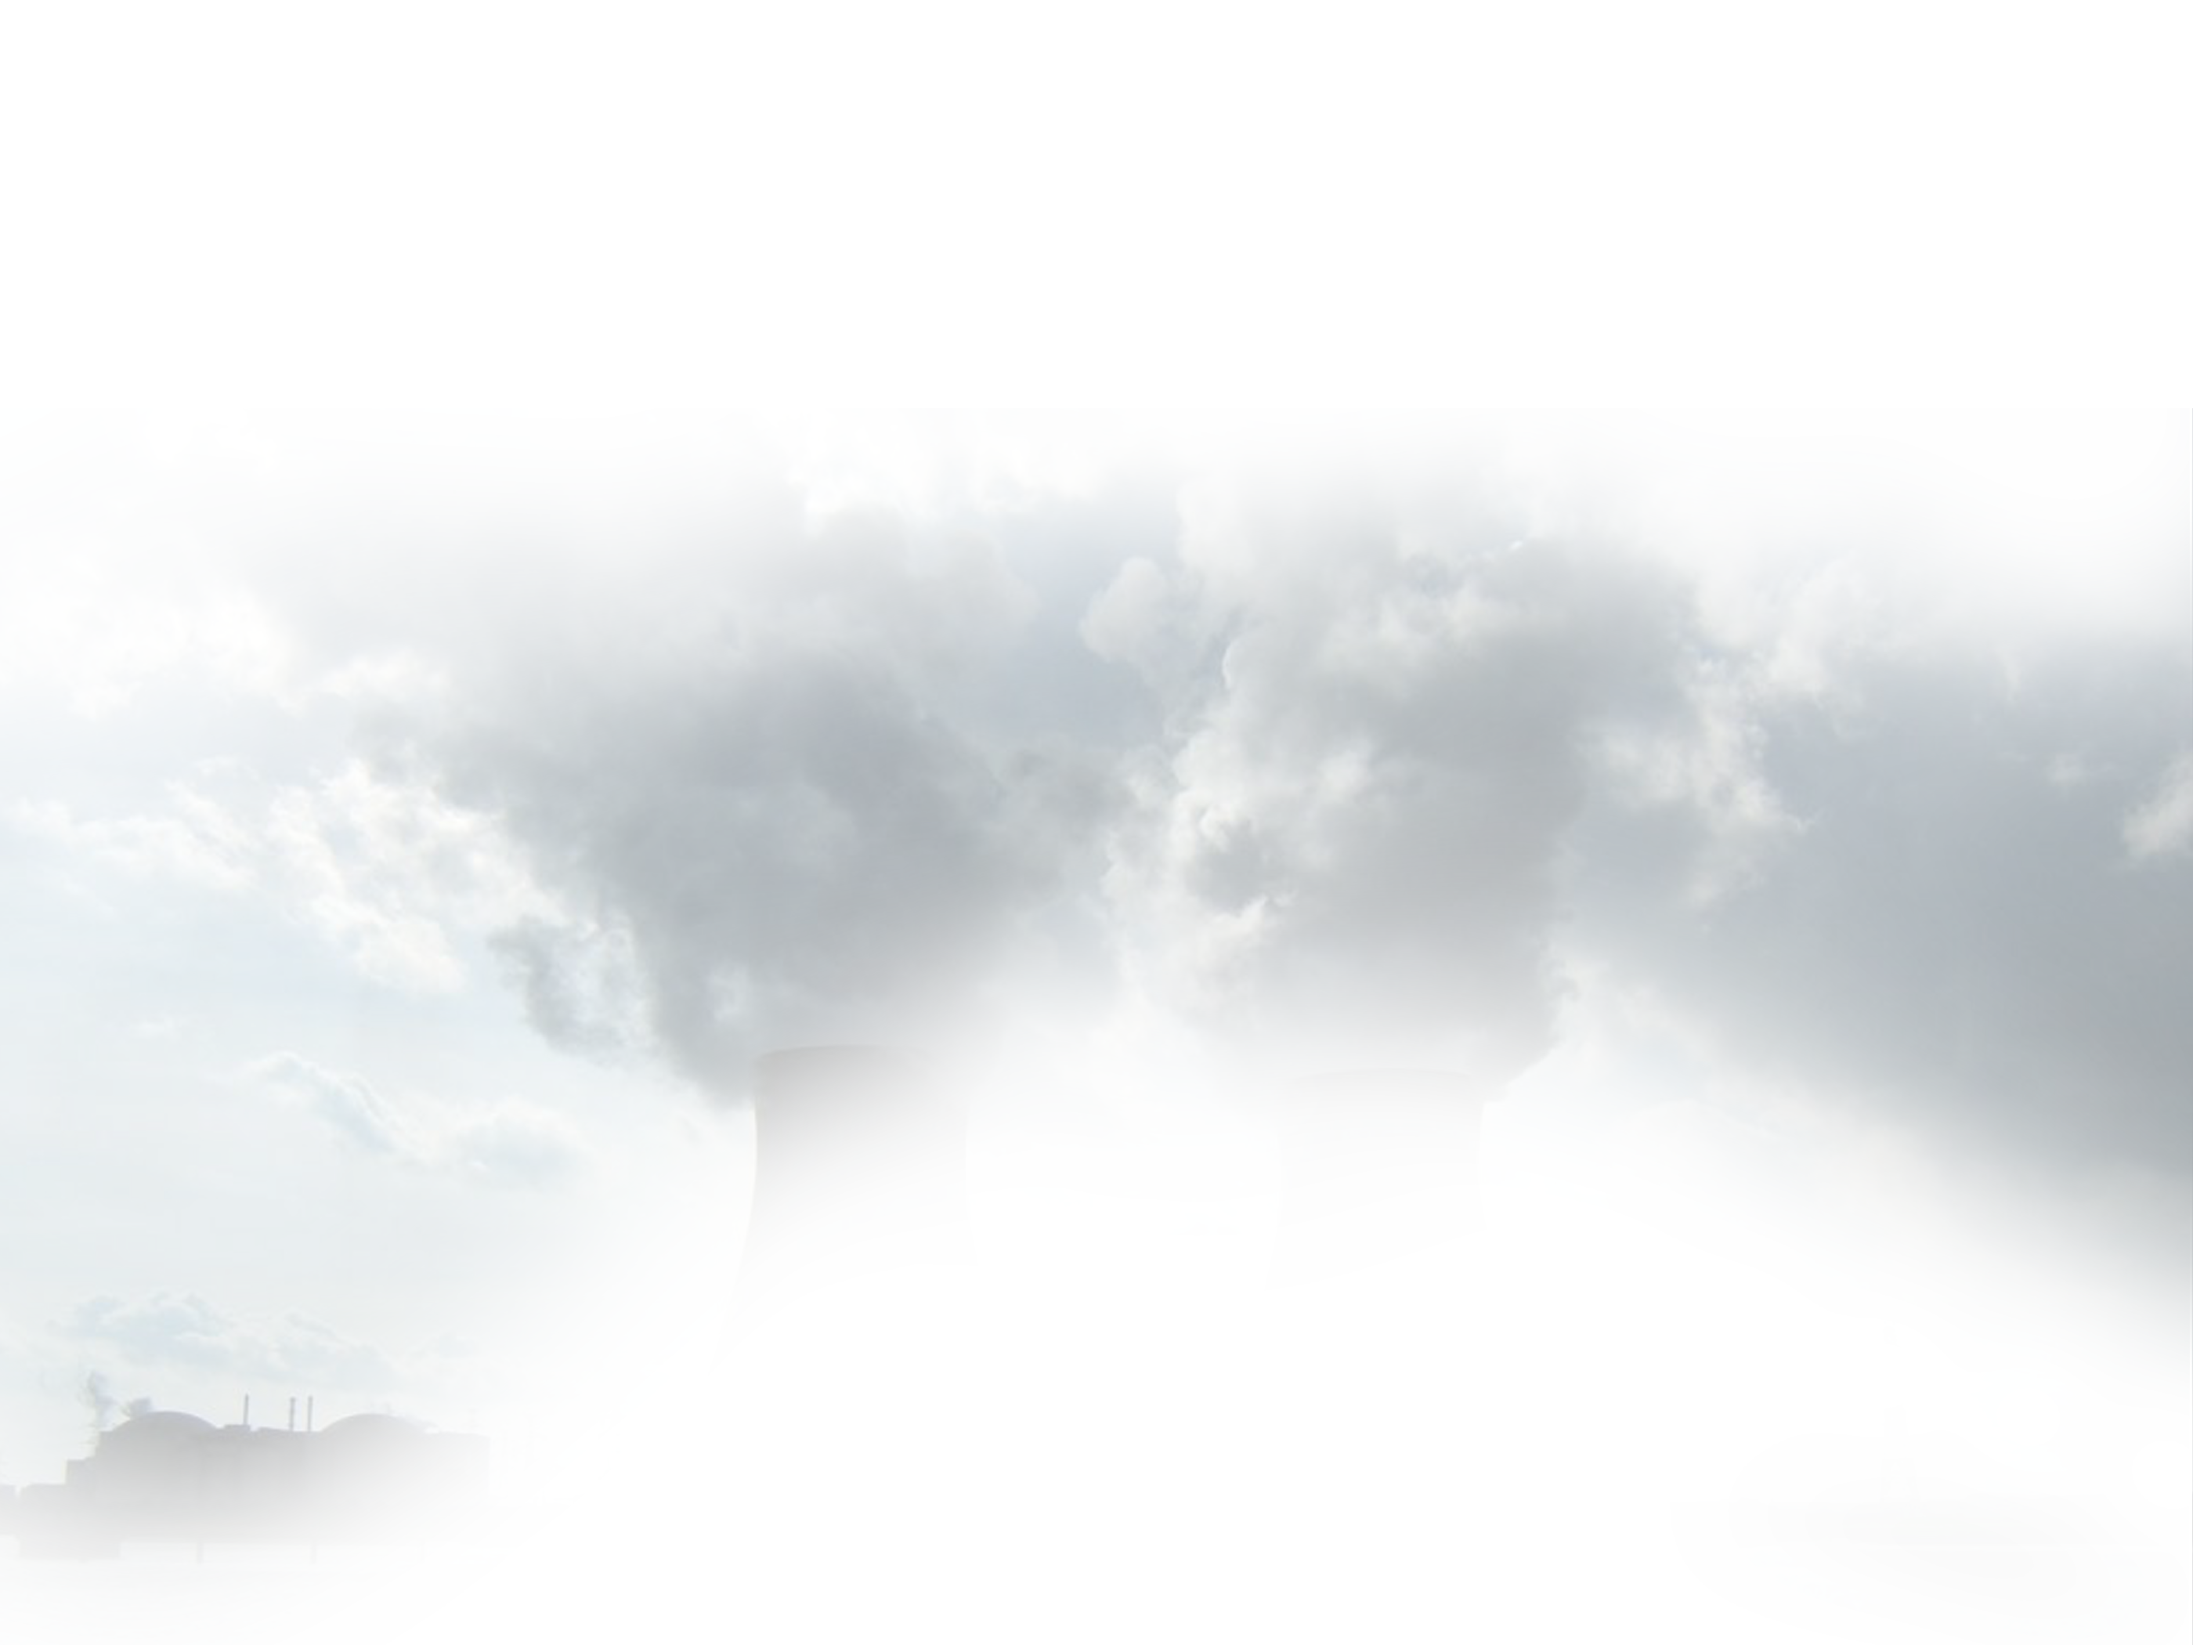
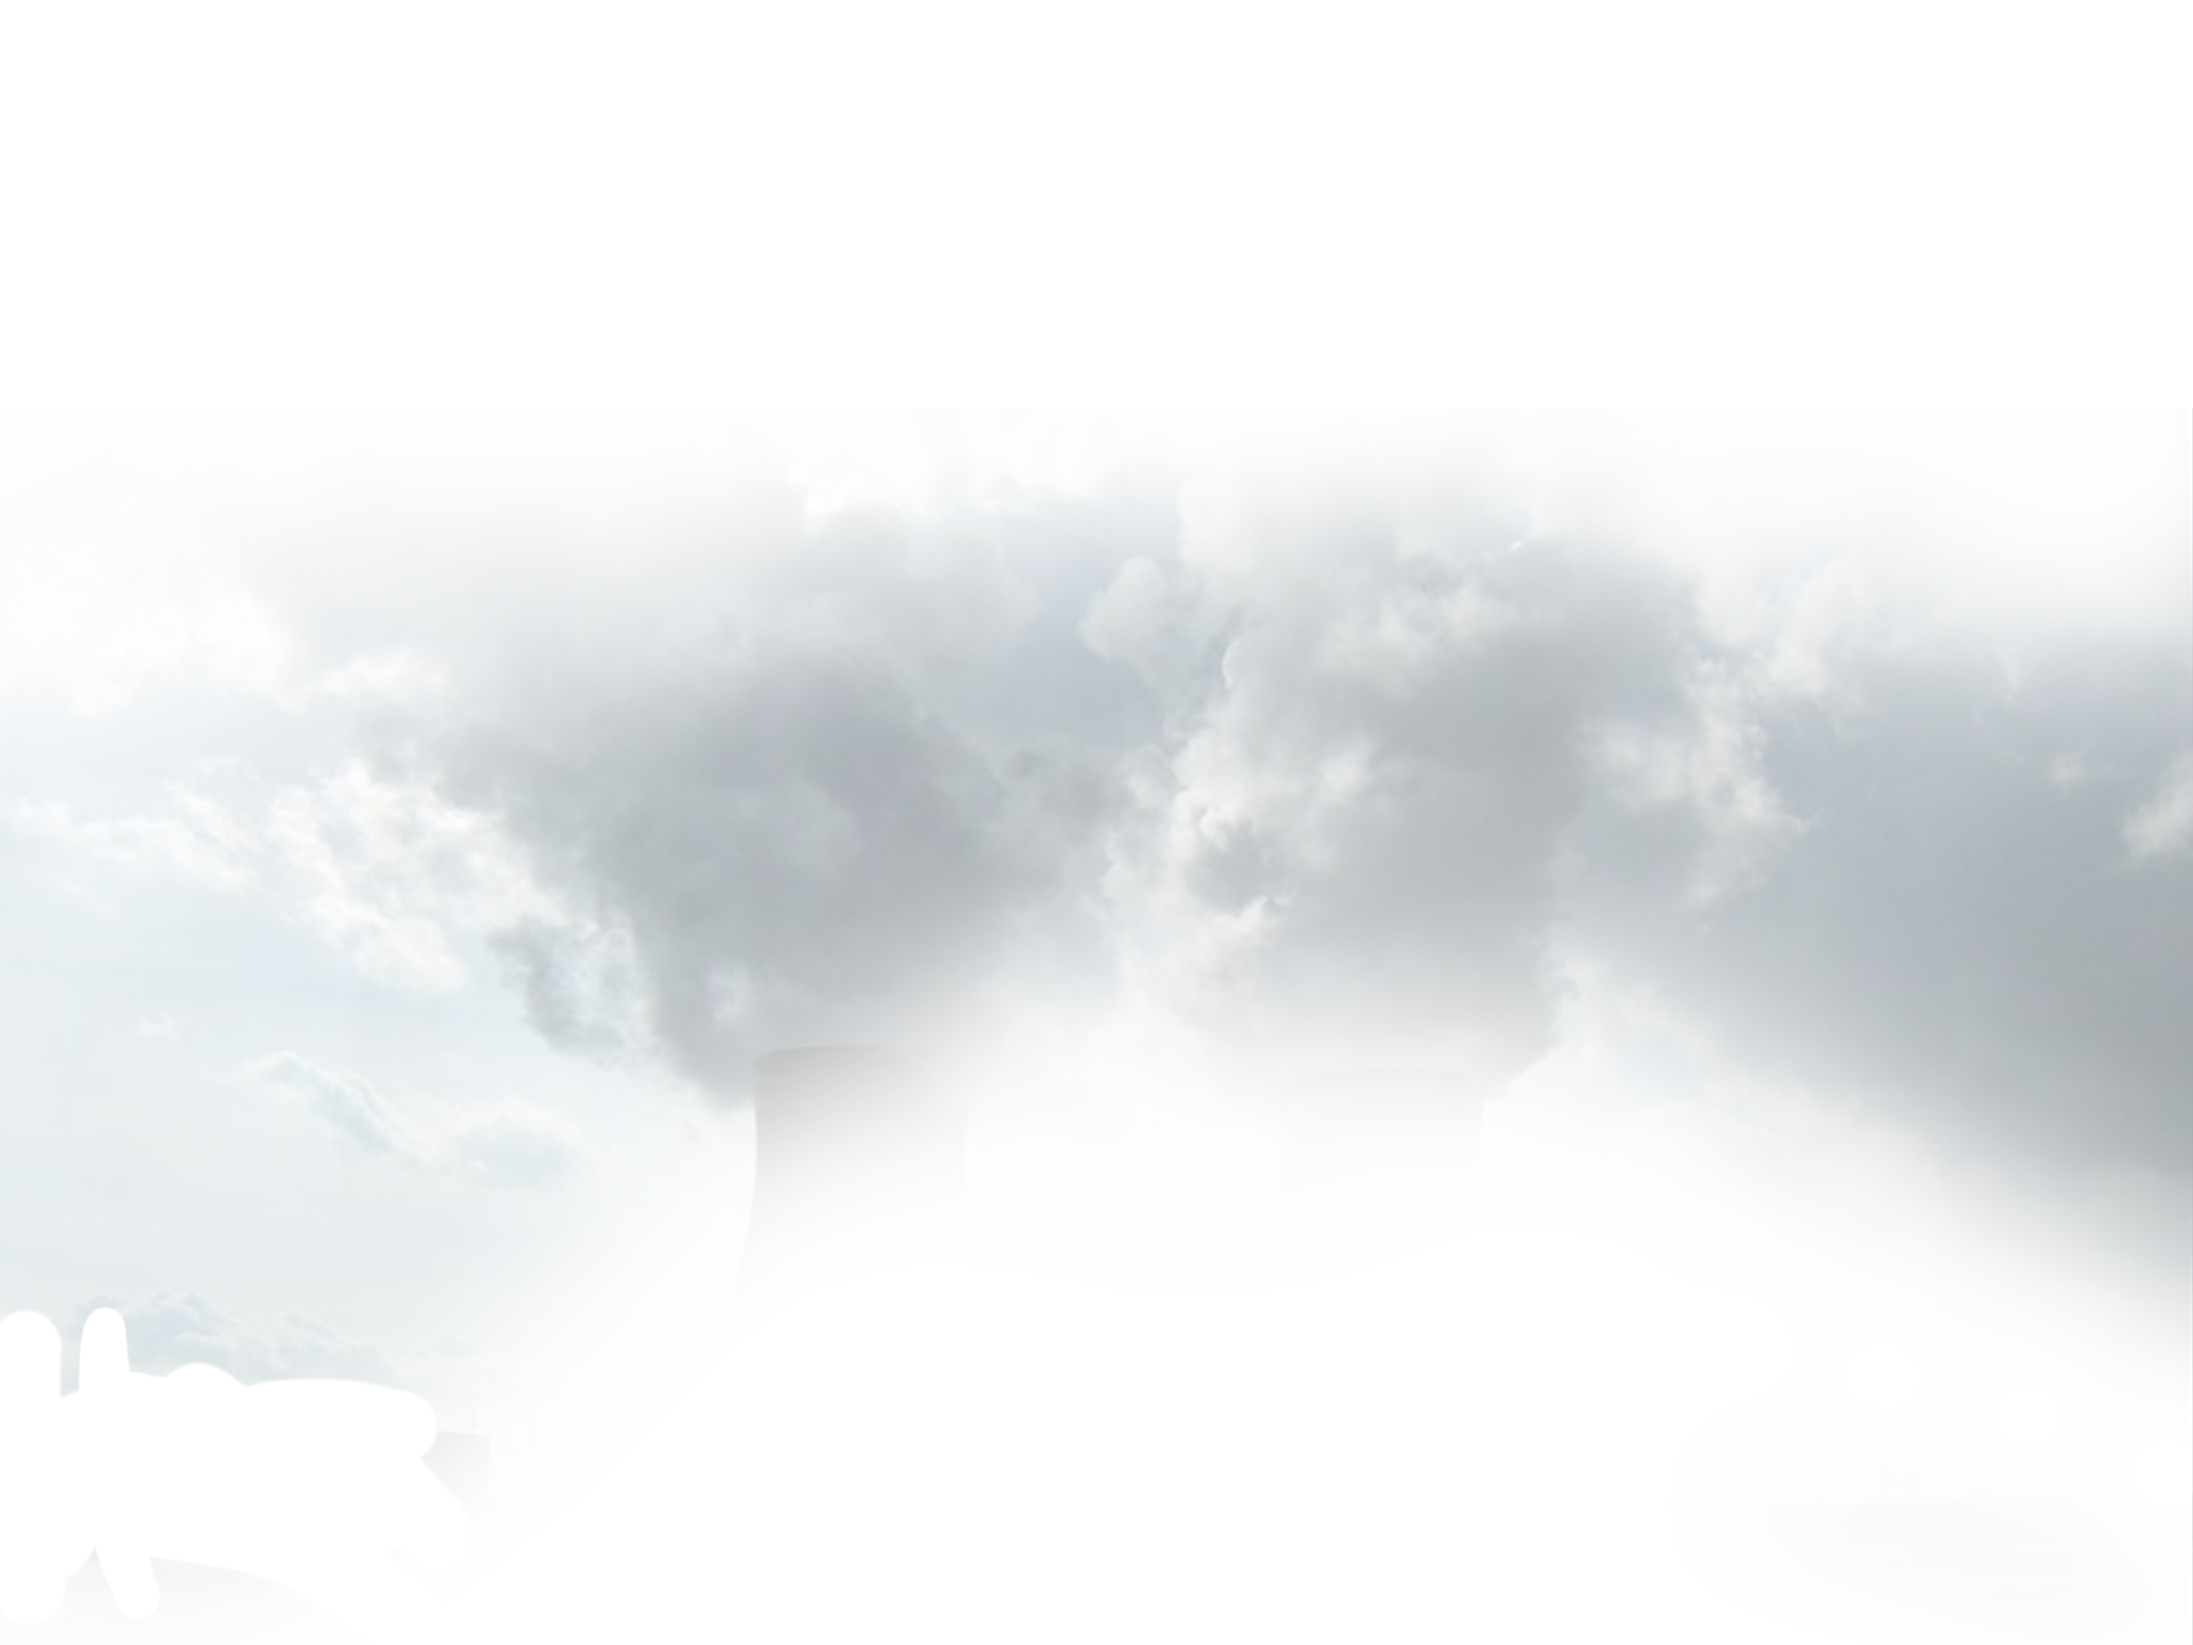
so sleepy

Changed region(s): [[0.0, 0.7738, 0.1864, 0.9286]]

diff --git a/js/app.js b/js/app.js
@@ -3,8 +3,10 @@
   var adjust_smog, delay, puts, yell;
 
   $(function() {
-    var current_url, n, pattern, pattern2, slides, str;
+    var animating, current_url, n, pattern, pattern2, slides, str, wiggle_count;
 
+    animating = false;
+    wiggle_count = 0;
     current_url = document.URL;
     pattern = /earthday\/#(.+)$/;
     n = 0;
@@ -12,6 +14,7 @@
       str = current_url.match(pattern)[1];
       pattern2 = /slide([\d]+)$/;
       if (str.match(pattern2)) {
+        $("#toc").val(str.match(pattern2)[1]);
         n = parseInt(str.match(pattern2)[1]) - 1;
       }
     } else {
@@ -28,7 +31,7 @@
         if (!(n >= slides.length)) {
           n++;
         }
-      } else if (dir === "prev") {
+      } else {
         if (!(n <= 1)) {
           n--;
         }
@@ -44,7 +47,7 @@
         return delay(0.5, function() {
           var slide, year;
 
-          c.removeClass("bounceOutRight bounceOutLeft").hide();
+          c.hide().removeClass("bounceOutRight bounceOutLeft");
           slide = $("#slide" + n);
           if (dir === "prev") {
             slide.show().addClass("bounceInLeft");
@@ -59,7 +62,7 @@
           $("#year").text(year);
           document.title = "(" + n + "/" + slides.length + ") Earth Day";
           history.pushState({}, "switching slides", "/earthday/#slide" + n);
-          return adjust_smog(n, cache, slides.length);
+          return adjust_smog(year);
         });
       } else {
         cache = $("#slide" + cache);
@@ -100,22 +103,17 @@
     return location.reload();
   };
 
-  adjust_smog = function(n, p) {
-    var len, severity;
+  adjust_smog = function(year) {
+    var yr;
 
-    len = 13;
-    severity = len - n;
-    if (severity < len / 3) {
-      return $("#smog").removeClass("smoggy");
-    } else if (severity < len / 2) {
-      if (n > p) {
-        return $("#smog").addClass("smoggy");
-      } else {
-        return $("#smog").removeClass("pollutiony");
-      }
-    } else {
+    yr = parseInt(year, 10);
+    if (year === "" || yr < 1992) {
+      return $(".effects").children().addClass("smoggy pollutiony");
+    } else if (yr < 2000) {
       $("#smog").addClass("smoggy");
-      return $("#pollution").addClass("pollutiony");
+      return $("#pollution").removeClass("pollutiony");
+    } else {
+      return $(".effects").children().removeClass("smoggy pollutiony");
     }
   };
 

diff --git a/css/style.css b/css/style.css
@@ -74,7 +74,7 @@ article, aside, details, figcaption, figure, footer, header, hgroup, menu, nav, 
 html {
   min-height: 100%;
   background-size: cover;
-  background-image: url(../img/skyline.jpg);
+  background-image: url(../img/SKYLINE.jpg);
   background-repeat: no-repeat;
   background-position: bottom center;
   font-family: 'Questrial', sans-serif;
@@ -112,26 +112,25 @@ p, li, h2 {
 }
 
 /* line 41, ../scss/style.scss */
-.smog {
+.smoggy {
   position: absolute;
   left: 0px;
-  bottom: 20%;
+  bottom: 0px;
   width: 100%;
   height: 100%;
-  background-image: url(../img/SMOG.png);
   opacity: 1;
   z-index: -2;
 }
 
 /* line 52, ../scss/style.scss */
-.pollution {
+.pollutiony {
   position: absolute;
   left: 0px;
-  bottom: 65%;
+  bottom: 0px;
   width: 100%;
   height: 100%;
-  background-image: url(../img/POLLUTION.png);
-  opacity: 1;
+  background-image: url(../img/SMOG2.png);
+  opacity: 0.5;
   z-index: -1;
 }
 

diff --git a/scss/style.scss b/scss/style.scss
@@ -12,7 +12,7 @@ $width: 500px;
 html {
   min-height: 100%;
   background-size: cover;
-  background-image: url(../img/skyline.jpg);
+  background-image: url(../img/SKYLINE.jpg);
   background-repeat: no-repeat;
   background-position: bottom center;
   font-family: 'Questrial', sans-serif;
@@ -38,25 +38,25 @@ li {
 p,li,h2 {
   margin-top: 5px;
 }
-.smog {
+.smoggy {
   position: absolute;
   left: 0px;
-  bottom: 20%;
+  bottom: 0px;
   width: 100%;
   height: 100%;
-  background-image: url(../img/SMOG.png);
+  // background-image: url(../img/SMOG1.png);
   opacity: 1;
   z-index: -2;
 }
 
-.pollution {
+.pollutiony {
   position: absolute;
   left: 0px;
-  bottom: 65%;
+  bottom: 0px;
   width: 100%;
   height: 100%;
-  background-image: url(../img/POLLUTION.png);
-  opacity: 1;
+  background-image: url(../img/SMOG2.png);
+  opacity: 0.5;
   z-index:-1;
 }
 

diff --git a/index.html b/index.html
@@ -11,8 +11,8 @@
 <body>
   <!-- overlay effects will show up here sometimes -->
   <div class="effects">
-    <div id="smog" class="animated"></div>
-    <div id="pollution" class="animated"></div>
+    <div id="smog" class="animated smoggy"></div>
+    <div id="pollution" class="animated pollutiony"></div>
   </div>
 
   <header>
